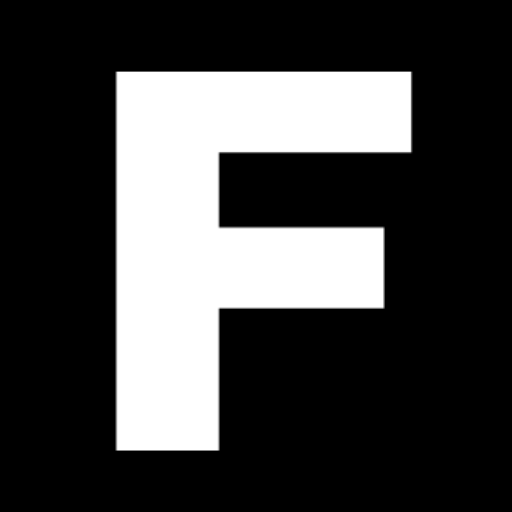
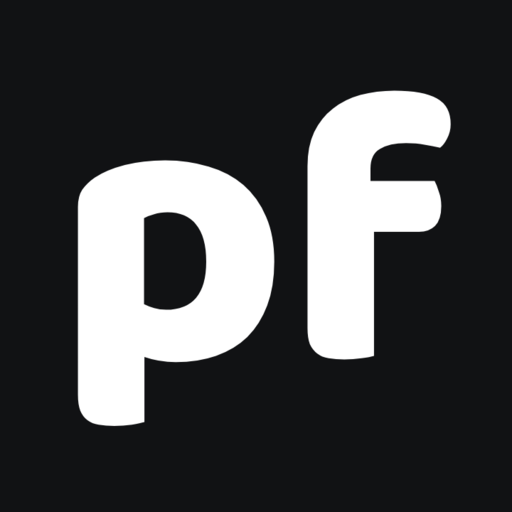
Rebranding: FlexForm to PHPForm

Changed region(s): [[0.125, 0.125, 0.9062, 0.9062]]

diff --git a/README.md b/README.md
@@ -1,16 +1,16 @@
-# FlexForm - Lightweight Form Server
+# PHPForm - Lightweight Form Server
 
-Welcome to FlexForm, a fully open-source, headless form server designed with simplicity, efficiency, and privacy in mind. Built to be easily installed on any budget-friendly hosting solution or free cloud tiers, FlexForm is the perfect choice for developers and businesses looking for a reliable and GDPR-compliant form management solution.
+Welcome to PHPForm, a fully open-source, headless form server designed with simplicity, efficiency, and privacy in mind. Built to be easily installed on any budget-friendly hosting solution or free cloud tiers, PHPForm is the perfect choice for developers and businesses looking for a reliable and GDPR-compliant form management solution.
 
 <img src="./public/images/screen.png" width="100%">
 
 # Features
 
-- **Headless Architecture**: FlexForm is built as a headless server, offering flexibility and ease of integration with various frontend systems.
+- **Headless Architecture**: PHPForm is built as a headless server, offering flexibility and ease of integration with various frontend systems.
 - **Robust Admin Panel**: Manage your forms with ease using our user-friendly admin panel, designed for efficient and intuitive form management.
 - **Cost-Effective**: Designed to run smoothly on inexpensive hosting or free cloud services, reducing your operational costs.
-- **GDPR Compliant**: We prioritize your data privacy. FlexForm ensures that all your data remains yours, complying fully with GDPR regulations.
-- **Open Source**: Dive into the code, customize, and contribute! Our community-driven approach means FlexForm is continually evolving.
+- **GDPR Compliant**: We prioritize your data privacy. PHPForm ensures that all your data remains yours, complying fully with GDPR regulations.
+- **Open Source**: Dive into the code, customize, and contribute! Our community-driven approach means PHPForm is continually evolving.
 
 # Requirements
 ### PHP Version
@@ -30,7 +30,7 @@ Welcome to FlexForm, a fully open-source, headless form server designed with sim
 
 # License
 
-FlexForm is released under MIT, ensuring it remains free and open for use and modification.
+PHPForm is released under MIT, ensuring it remains free and open for use and modification.
 
 # Getting Started
 
@@ -43,9 +43,9 @@ FlexForm is released under MIT, ensuring it remains free and open for use and mo
 
 
 ## Running locally with docker
-Use the latest [image from docker hub](https://hub.docker.com/r/flexform/flexform-server) to run it locally:
+Use the latest [image from docker hub](https://hub.docker.com/r/phpform/phpform-server) to run it locally:
 ```bash
-docker run --name flexform -d -p 9000:9000 flexform/flexform-server:0.1
+docker run --name phpform -d -p 9000:9000 phpform/phpform-server:0.1
 ```
 Copy environment file and adjust it to your needs:
 ```bash
@@ -53,7 +53,7 @@ cp .env.prod .env
 ```
 Run DB migrations from container
 ```bash
-docker exec -it flexform bash
+docker exec -it phpform bash
 php bin/console doctrine:migrations:diff
 php bin/console doctrine:migrations:migrate
 ```
@@ -80,13 +80,13 @@ php -S localhost:8000 -t public
 ```
 
 ## Deploying on shared hosting
-Build the project on your local machine or [download prebuild release](https://flexform.nyc3.cdn.digitaloceanspaces.com/flexform-server-latest.zip).
+Build the project on your local machine or [download prebuild release](https://phpform.nyc3.cdn.digitaloceanspaces.com/phpform-server-latest.zip).
 Upload the files to your shared hosting.
 Make sure you make "public" folder as your main folder.
 
 ## Deploying on cloud hosting
-You can deploy FlexForm on any cloud hosting provider that supports PHP 8.2 or higher.
-Also you can use [FlexForm Docker Image](https://hub.docker.com/r/flexform/flexform-server) to deploy FlexForm on any cloud hosting provider that supports docker.
+You can deploy PHPForm on any cloud hosting provider that supports PHP 8.2 or higher.
+Also you can use [PHPForm Docker Image](https://hub.docker.com/r/phpform/phpform-server) to deploy PHPForm on any cloud hosting provider that supports docker.
 
 Make sure you:
 - Set the environment variable `APP_ENV` to `prod`
@@ -107,10 +107,10 @@ php bin/console doctrine:migrations:migrate
 ```
 
 ## Deploy instructions
- - [Installing FlexForm on DigitalOcean Apps](https://medium.com/@ashelestov/installing-flexform-on-digitalocean-apps-b3e5b1ba868a)
+ - [Installing PHPForm on DigitalOcean Apps](https://medium.com/@ashelestov/installing-flexform-on-digitalocean-apps-b3e5b1ba868a)
 
 # Frontend components
-FlexForm is a headless form server. This means that you can use any frontend framework to build your forms.
+PHPForm is a headless form server. This means that you can use any frontend framework to build your forms.
 We provide a set of frontend components that you can use to build your forms.
 
 Soon will be available components for React, Vue, Angular, Svelte and more.
